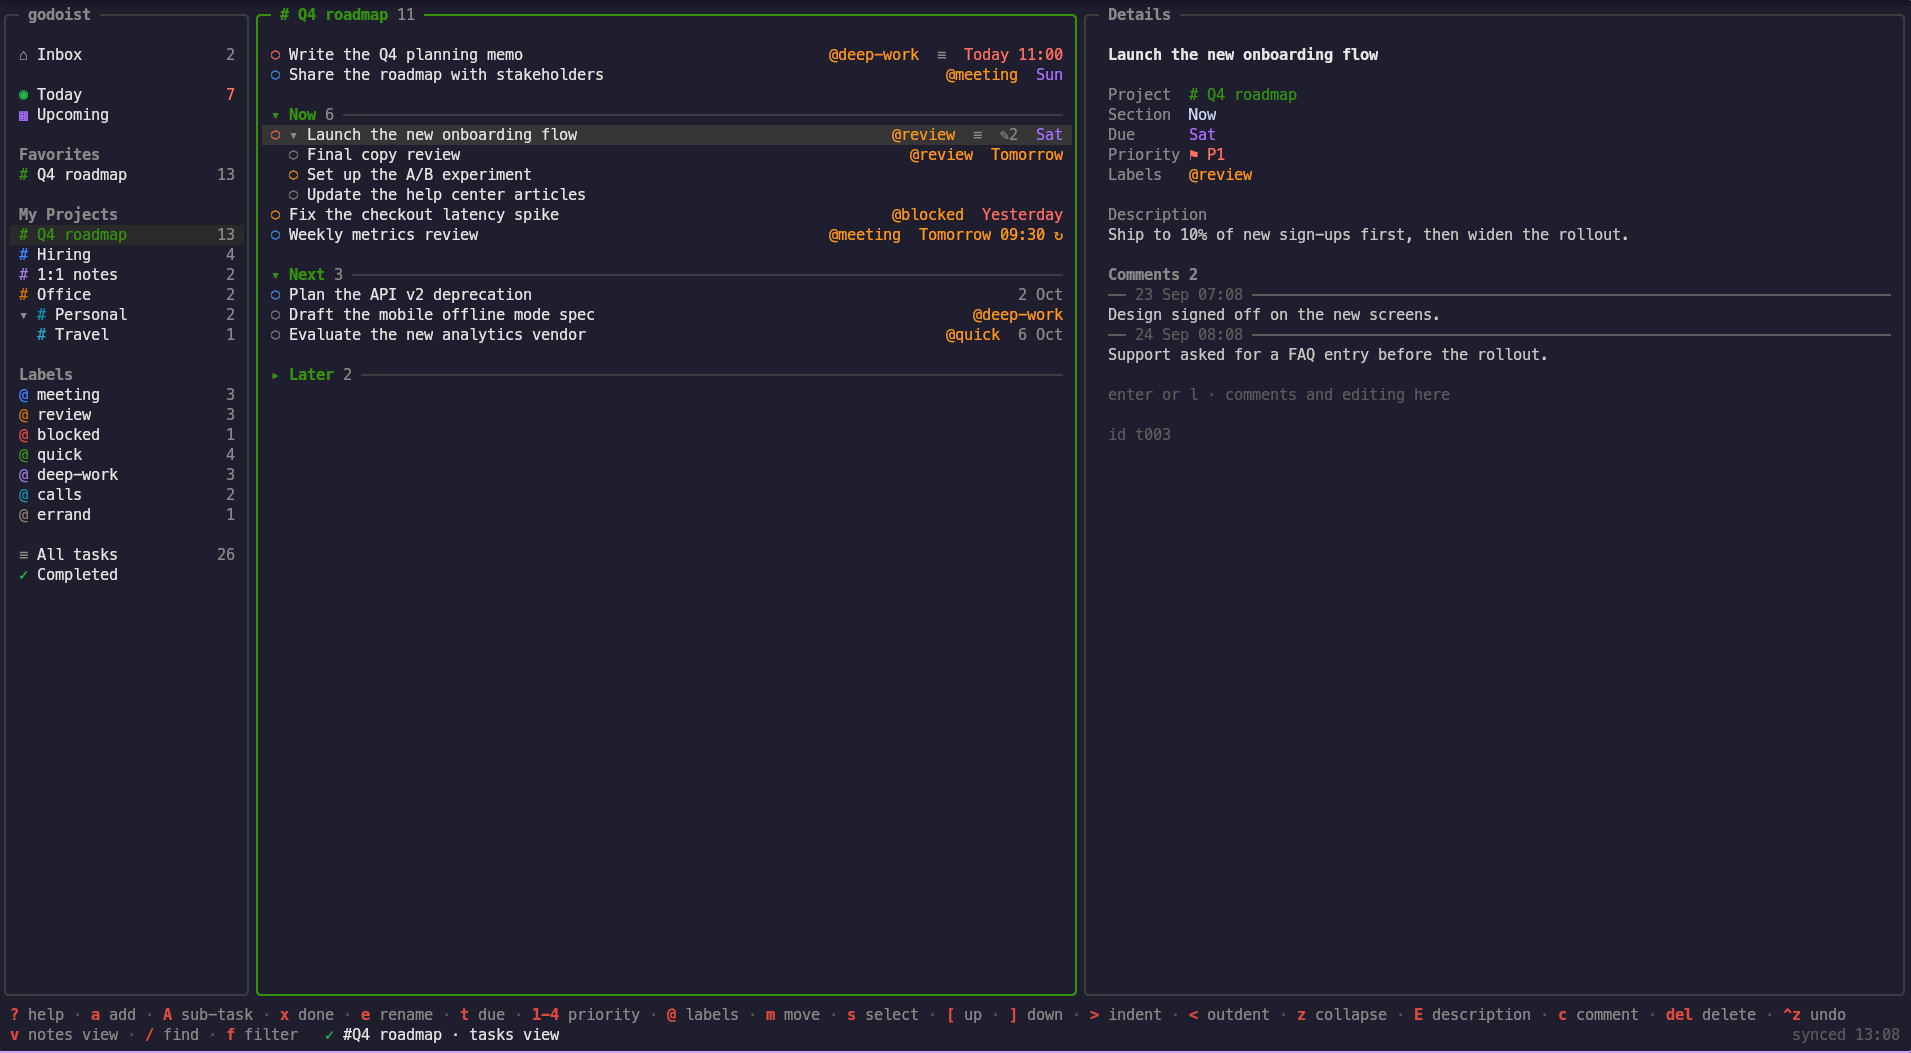
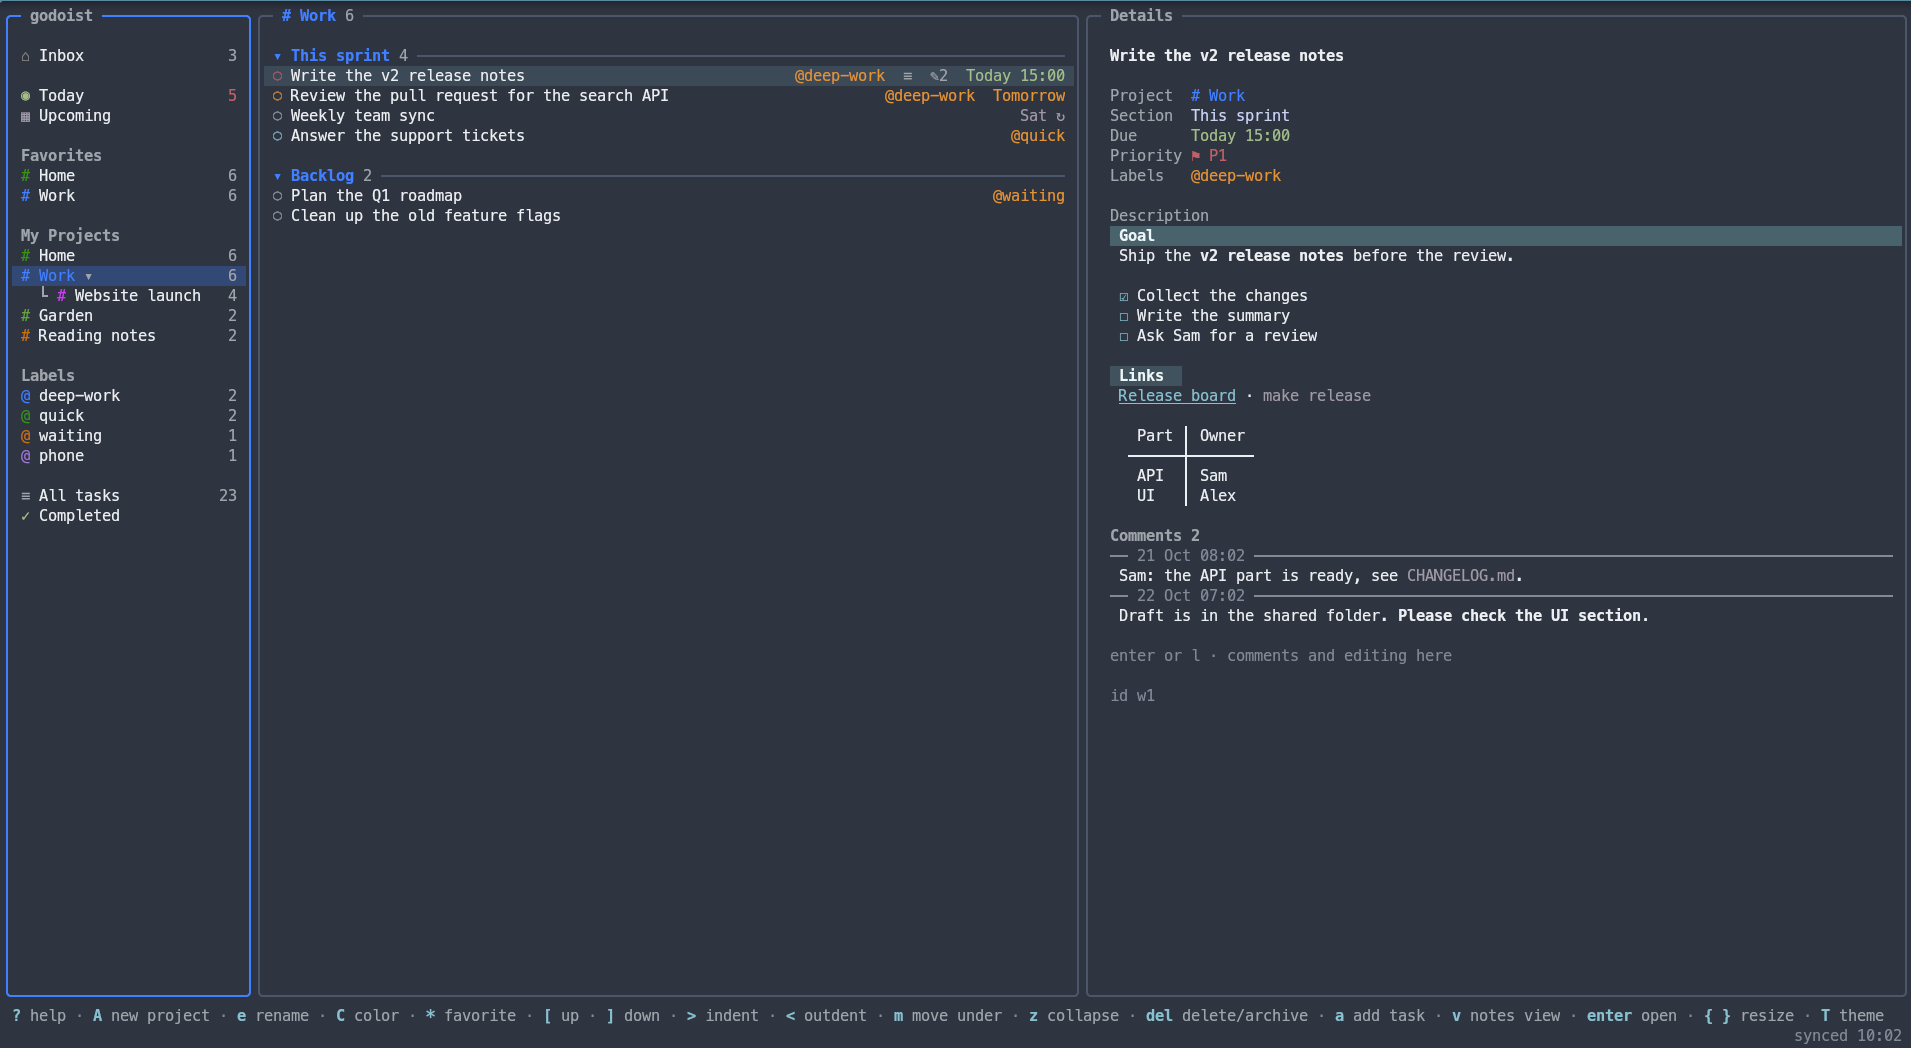
Update the screenshot

Changed region(s): [[0.0, 0.0, 1.0, 1.0], [0.988, 0.5191, 1.0, 0.5802], [0.988, 0.0, 1.0, 0.0305]]

diff --git a/README.md b/README.md
@@ -4,7 +4,7 @@ godoist is a terminal program for [Todoist](https://todoist.com) in Go. It has a
 
 > This software was developed with the assistance of a LLM.
 
-![godoist: the sidebar, a project with sections and sub-tasks, and the details pane](docs/screenshot.png)
+![godoist: the sidebar, a project with sections, and the details pane with a markdown description and comments](docs/screenshot.png)
 
 ## Features
 
